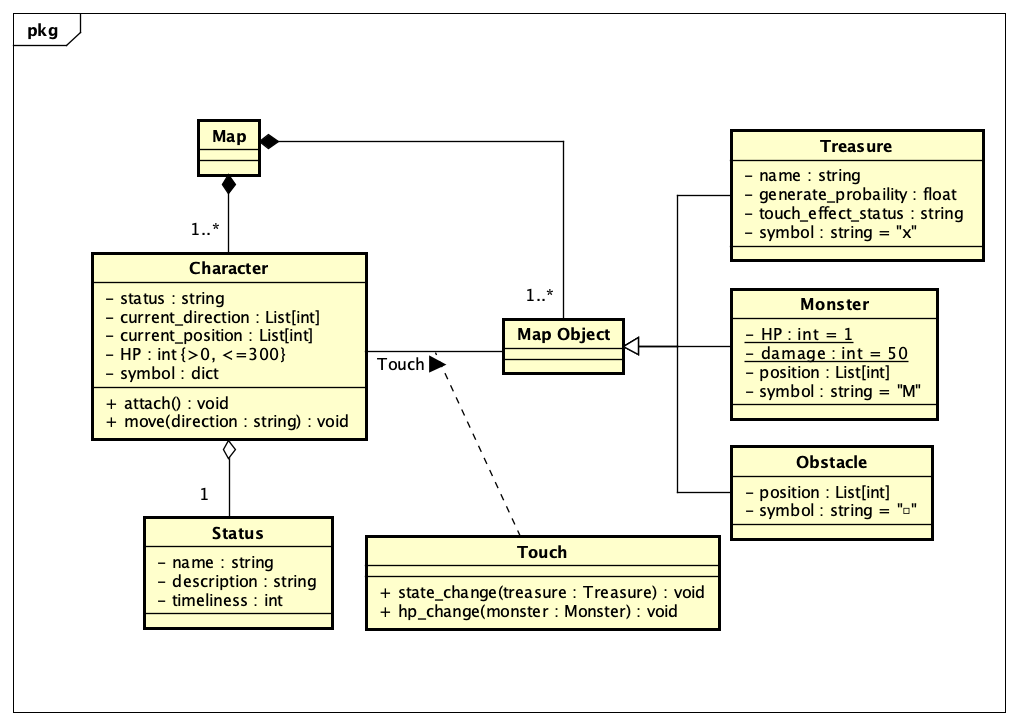
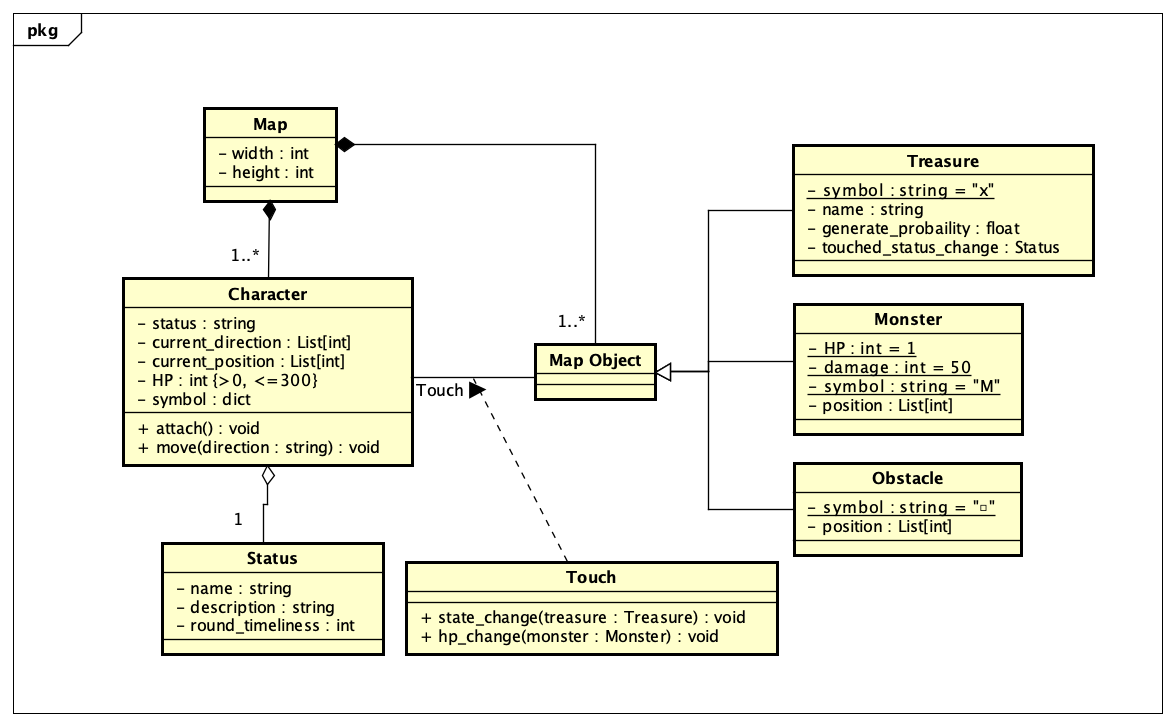
Add

Changed region(s): [[0.0914, 0.1214, 0.9745, 0.9103], [0.0, 0.0303, 0.0914, 0.0607]]

diff --git a/3.3.H/code/map.py b/3.3.H/code/map.py
@@ -1,5 +1,10 @@
 from dataclasses import dataclass
+from typing import Union, List
 import numpy as np
+from pathlib import Path
+import random
+
+from CardGame.utils import read_data
 
 
 @dataclass
@@ -8,4 +13,36 @@ class Map:
     width: int
 
     def __post_init__(self) -> None:
+        self.ROOT_DIR = Path(__name__).parent.absolute()
         self.matrix = np.zeros((self.height, self.width))
+        self.space_num = self.height * self.width
+        self.map_objects = read_data(str(self.ROOT_DIR / "config.yaml"))
+
+    def _draw_position_on_map(self) -> np.array:
+        pass
+
+    def _get_current_left_space_num(self) -> int:
+        """計算地圖剩下多少空間"""
+        return self.space_num - len(self.map_objects)
+
+    def _generate_random_position(self) -> List[int]:
+        """隨機生成位置"""
+        _position = None
+        while _position is None or _position in self.map_objects.values():
+            _position = [
+                random.randint(0, self.height - 1),
+                random.randint(0, self.width - 1),
+            ]
+        return _position
+
+    def _generate_object_num(self) -> int:
+        """隨機生成數量"""
+        return random.randint(0, self._get_current_left_space_num() // 2 - 1)
+
+    def initialize(self):
+        """隨機生成三種 Map Object 的數量及位置
+        - Obstcle
+        - Treasure
+        - Role(Monster)
+        - Role(Chactrer)
+        """

diff --git a/CardGame/CardGame/utils.py b/CardGame/CardGame/utils.py
@@ -5,6 +5,7 @@ from pathlib import Path
 from typing import Any
 import json
 import pandas as pd
+import yaml
 
 
 def log_setting(
@@ -56,8 +57,14 @@ def read_data(path: str) -> Any:
         data = pd.read_json(path, lines=True, orient="records", compression="gzip")
     elif path.endswith(".pickle"):
         data = pd.read_pickle(path)
-    elif path.endswith("parquet"):
+    elif path.endswith(".parquet"):
         data = pd.read_parquet(path)
+    elif path.endswith(".yaml"):
+        with open(path, "r") as stream:
+            try:
+                data = yaml.safe_load(stream)
+            except yaml.YAMLError as e:
+                logging.error(e)
     else:
         data = []
     return data

diff --git a/3.3.H/code/role.py b/3.3.H/code/role.py
@@ -1,12 +1,11 @@
-from abc import ABC, abstractmethod
 from typing import Union, List
-import random
+from map_object import MapObject
 
 
-class Role(ABC):
+class Role(MapObject):
     def __init__(self, symbol: Union[str, dict], name: str) -> None:
         self._symbol = symbol
         self._name = name
 
-    def _random_position(self, map: "Map"):
+    def _get_random_position(self, map: "Map"):
         return [random.randint(0, map.height - 1), random.randint(0, map.width - 1)]

diff --git a/3.3.H/code/map_object.py b/3.3.H/code/map_object.py
@@ -1,0 +1,14 @@
+from dataclasses import dataclass
+from abc import ABC, abstractmethod
+from typing import Union, List
+import random
+
+
+@dataclass
+class MapObject(ABC):
+    symbol: str
+    name: str
+    position: List[int]
+
+    def __post_init__(self) -> None:
+        pass
